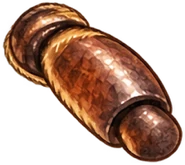
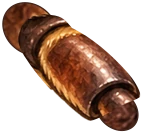
v0.7.7: 観察（試作）の前脚を新しい絵にしてひざで曲げる・奥の触角の位置を直す
Claude-Session: https://claude.ai/code/session_01XjFqMpK46iD8QkATmru1uR

diff --git a/index.html b/index.html
@@ -612,9 +612,12 @@ const SAVE_KEY = KEY_PRE + 'munakata-mushisodate-v1';
 const QS = new URLSearchParams(location.search);
 
 /* バージョンとこうしん情報：公開するたびに番号を上げる（ふだんは +0.0.1、大きなこうしんは +0.1） */
-const GAME_VER = '0.7.6';
-const BUILD = '20261024-1653';   // 公開するたびに tools/bump.sh が日時を書きこむ（version.json と同じ値）
+const GAME_VER = '0.7.7';
+const BUILD = '20261024-1714';   // 公開するたびに tools/bump.sh が日時を書きこむ（version.json と同じ値）
 const CHANGELOG = [
+  {v:'0.7.7', date:'2026-10-24', items:[
+    '観察（試作）：カブトムシの前脚を新しい絵にして、ひざで曲がるようにした。触角そうじは、脚を高く上げてから、すねで触角をなでおろす',
+    '観察（試作）：奥の触角が頭からはなれて浮いていたのを直した']},
   {v:'0.7.6', date:'2026-10-24', items:[
     '観察（大きく見る）画面の試作：カブトムシを部品の絵から組み立てて、呼吸・触角のぴくぴく・前脚での触角そうじ・ゼリーを食べる口・ツノのいかくを動かせるようにした（見本ページの「観察（試作）」から）']},
   {v:'0.7.5', date:'2026-10-24', items:[
@@ -2522,9 +2525,9 @@ addEventListener('keydown', e=>{
    ========================================================= */
 const BUG_PARTS = {
   kabuto: {
-    parts:{body:[41,285,793,640], head:[705,124,305,504], antenna:[841,562,140,68], thigh:[610,596,185,165], shin:[669,632,311,304], mouth:[846,593,60,54]},
-    pv:{neck:[735,578], ant:[850,577], coxa:[632,616], knee:[692,648], mouth:[856,604], breath:[560,880]},
-    far:{ant:[46,-38, -6], leg:[70,-95, -14]},   // 奥がわの触角・前脚：手前の絵を [右へ, 上へ, 回す角度] ずらしてくらくする
+    parts:{body:[41,285,793,640], head:[705,124,305,504], antenna:[841,562,140,68], thigh:[623,600,143,134], shin:[717,689,237,226], mouth:[846,593,60,54]},
+    pv:{neck:[735,578], ant:[850,577], coxa:[640,616], knee:[740,712], mouth:[856,604], breath:[560,880]},
+    far:{ant:[18,-17, -7], leg:[70,-95, -14]},   // 奥がわの触角・前脚：手前の絵を [右へ, 上へ, 回す角度] ずらしてくらくする
     box:'20 90 1000 880', ground:925, jelly:[848,668],
   },
 };
@@ -2580,7 +2583,7 @@ function openZoom(id, opt={}){
     if(act === 'clean'){
       const k = (t - actT)/1000, up = ease(k/0.7) * (1 - ease((k - 3.4)/0.7));
       const strokes = k > .7 && k < 3.4 ? (1 - Math.cos((k - .7) * Math.PI * 2 / .9)) / 2 : 0;   // 3回なでおろす
-      legA = -40 * up - 8 * strokes * up; shinA = -12 * up + 8 * strokes * up; antPress = (10 + 16 * strokes) * up; head += 4 * up;
+      legA = -60 * up - 4 * strokes * up; shinA = 16 * up + 16 * strokes * up; antPress = (10 + 16 * strokes) * up; head += 4 * up;
       if(k > 4.2){ act = null; nextAct = t + 7000 + Math.random()*6000; say(SAY[mood]); }
     }
     if(act === 'threat'){
